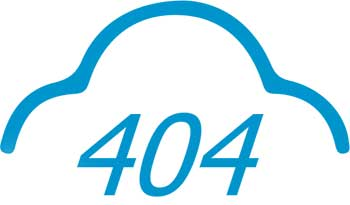
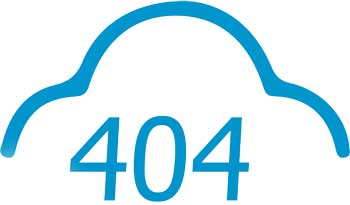
Alterado pafe-404

diff --git a/style.css b/style.css
@@ -746,18 +746,21 @@ a:active {
 }
 .error-404 #img-404 {
 	float: left;
-	background: url( "images/img-404.jpg" ) no-repeat;
+	/* background: url( "images/img-404.jpg" ) no-repeat; */
 	width: 350px;
 	height: 205px;
 }
 .error-404 .page-header {
 	float: right;
-	width: 57%;
-	font-size: 15px;
+	width: 55%;
+	font-size: 0.738em;
 }
-.error-404 .page-header span{
+.error-404 .page-header h1 {
+    margin-top: 40px;
+}
+.error-404 .page-header span {
 	font-weight: bold;
-	font-size: 60px;
+	font-size: 1.550em;
 }
 
 /*--------------------------------------------------------------

diff --git a/404.php b/404.php
@@ -11,7 +11,7 @@ get_header(); ?>
 		<main id="main" class="site-main" role="main">
 
 			<section class="error-404 not-found">
-				<span id="img-404"></span>
+				<img src="<?php bloginfo( 'template_url' ); ?>/images/img-404.jpg" alt="">
 				<header class="page-header">
 					<h1 class="page-title"><?php _e( '<span>Erro!</span><br /> Página não encontrada.', 'carpigiani-theme' ); ?></h1>
 				</header><!-- .page-header -->
